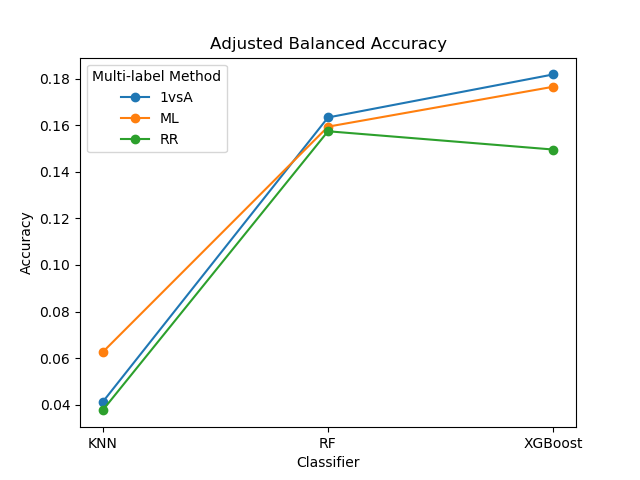
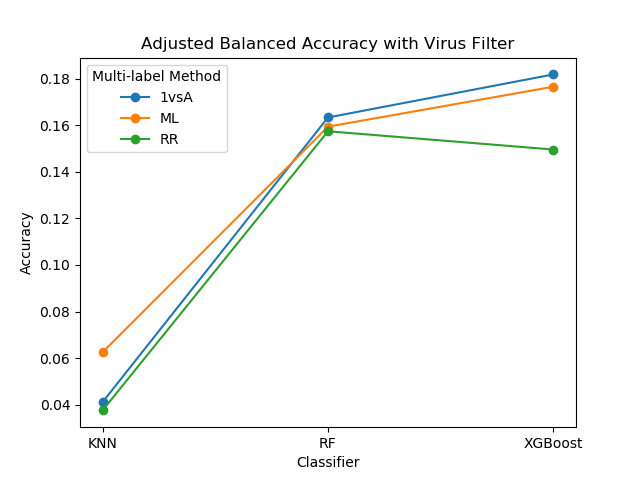
results with phase and virus filter

Changed region(s): [[0.2188, 0.0625, 0.8125, 0.125]]

diff --git a/main.py b/main.py
@@ -76,9 +76,9 @@ def main():
         homology_filter.filter()
 
     if args.classify:
-        classification = Classification('config/classification_config.json')
-        classification.classify_all()
-        classification.save()
+        # classification = Classification('config/classification_config.json')
+        # classification.classify_all()
+        # classification.save()
 
         cp = ClassificationPlotter('config/classification_config.json')
         cp.load_results()
